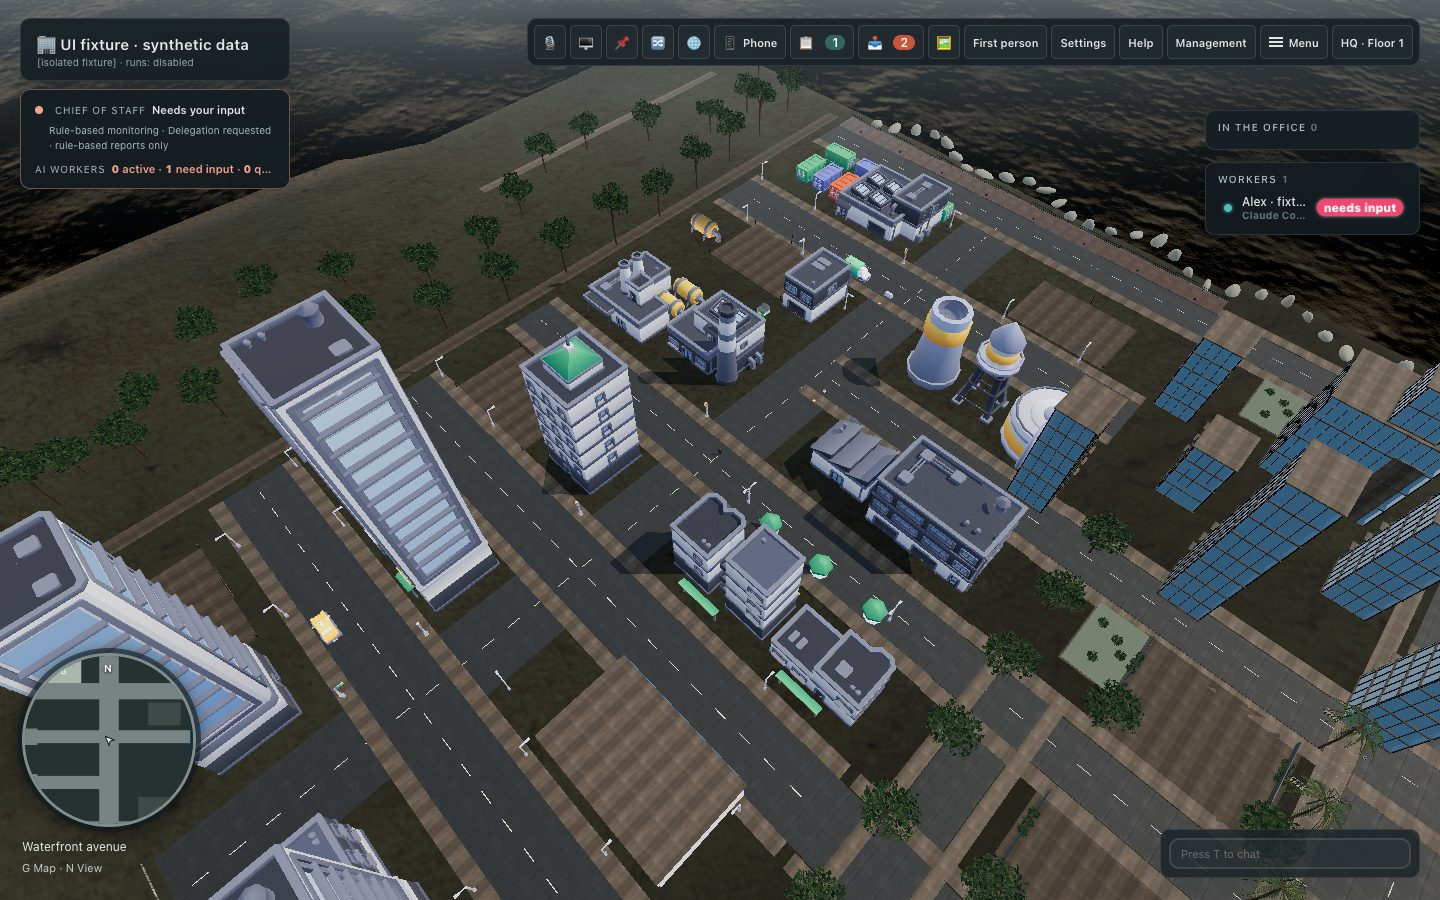
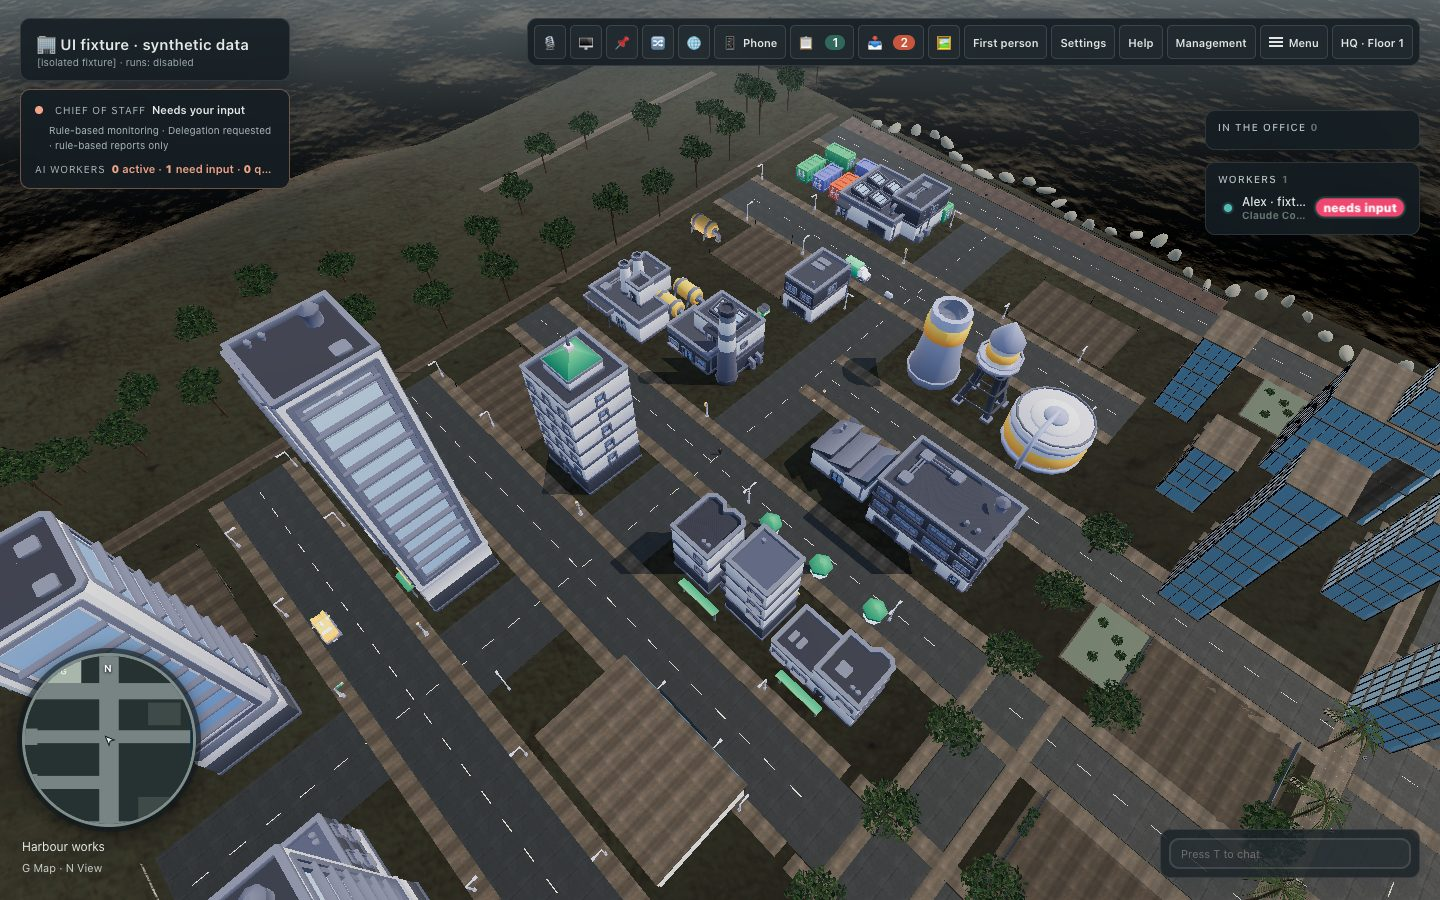
FREE-09 review: regenerated screenshots after animations settle; report review round

diff --git a/docs/team/reports/free-09.md b/docs/team/reports/free-09.md
@@ -103,6 +103,40 @@ The phone regresses by at most +0.26 ms, within the +1.5 ms budget. This was mea
 
 Unrelated screenshots were reverted.
 
+## Review round (screenshots and independent review)
+
+**Visual and copy fixes** (`f71cebc`):
+
+- The garage dialog now uses the app's dark dialog style (`.ae-dark`): opaque, above the HUD, and on 874x402 its list scrolls inside it.
+- The garage sign board is sized to its text.
+- The facade now has a plinth, cornice, pilasters, ribbed panels with clerestory windows, a door surround, a kerb and a lit canopy bar, plus two Kenney kerb lamps.
+- The dialog copy no longer mentions slice IDs. It now says: "Driving them is coming in a later update; today only your executive sedan can be driven".
+- The location label names the garage, Meridian business district or Harbour works.
+- Lamp arms now reach over the road.
+- city-ui-check waits for dialog animations to finish before screenshots. It now checks that the dialog is opaque and nothing covers it, that no internal IDs appear, and that the labels are right.
+
+**Review fixes** (`8fac01c`). Each has a test that fails without the change:
+
+1. Plots need founding, and the plot button stays disabled until founding is complete.
+2. Purchases carry a per-click nonce. The last 32 are kept in `city.nonces`, and a repeat is refused in the shared rules (host, cloud intents, fixture). Buttons stay disabled while a purchase is pending, until the state changes, an error toast arrives, or 8 s pass.
+3. The skyline tower colliders now start beyond the z = 146 kerb, and the tower inside Harbour works is removed. Covered by a layout test and a walk along the z = 146 road.
+4. A bay or kerb collider turns solid only once the sedan and the founder are clear of it (`slotClear`).
+5. `normalizeCity` keeps only known fields, accepts only `vehicle-N` ids, and requires purchase times ≥ 0.
+6. The asset tool checks the `zipinfo` listing before extracting: symlinks are refused, as are escaping paths and archives over 256 MiB. Each cache folder is named after its archive hash. A rebuild is byte-identical.
+7. (Optional item) Ledger labels ignore stray action fields.
+
+**Checks after both rounds:**
+
+- typecheck: pass
+- `npm test`: 834/834
+- build: pass
+- city-ui-check: 23/23 on two fresh fixtures. A first run timed out once and was not reproduced.
+- mobile-ui-check: 411/411
+- outfit-ui-check: 29/29
+- life04-ui-check (waiting): 20/20
+
+The perf numbers above were measured before the facade work. The facade is batched into the garage shell, and the two lamps join the existing instanced lamp mesh.
+
 ## Deferred
 
 - CITY-06: door and seat entry for the Kenney cars. They are parked, not drivable.
